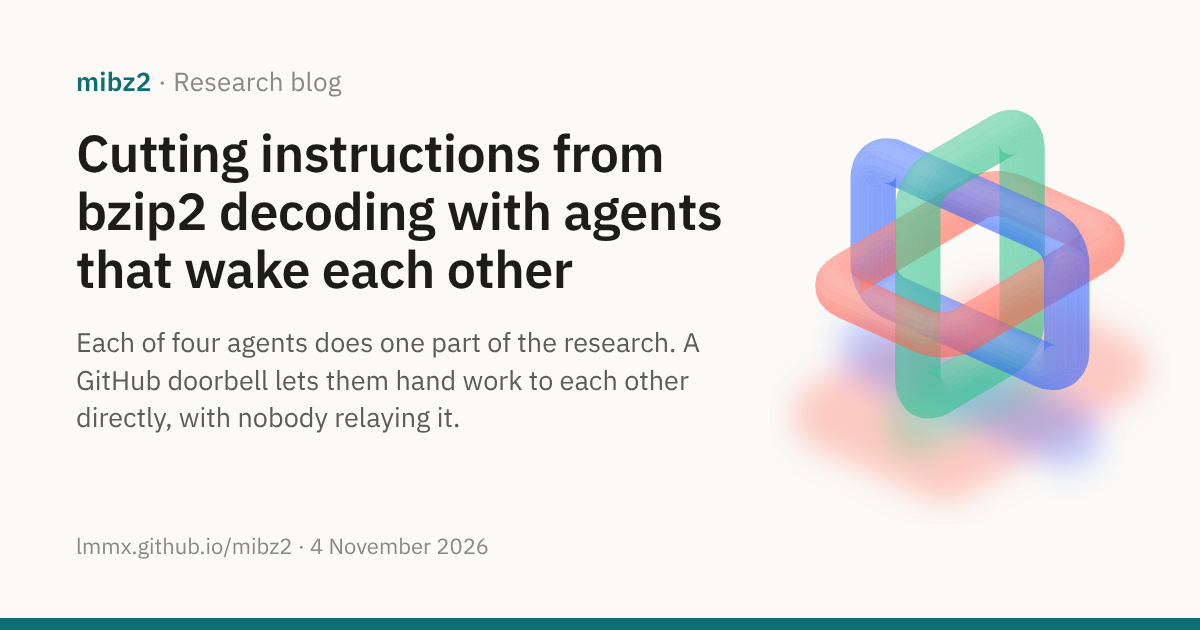
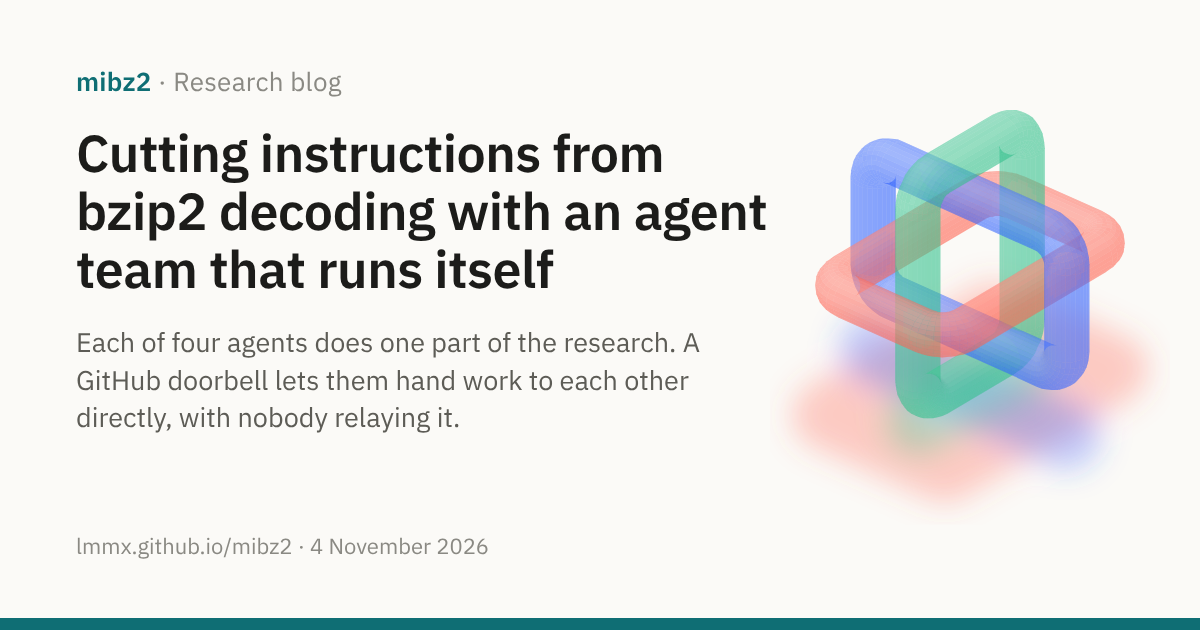
docs(blog): title the agent-team post around the work it does

Changed region(s): [[0.0617, 0.3921, 0.4933, 0.4825], [0.4933, 0.3016, 0.6475, 0.3921]]

diff --git a/docs/site/blog/index.md b/docs/site/blog/index.md
@@ -8,7 +8,7 @@ What mibz2's experiments are finding, and where they go next. The evidence behin
 post is in the [journals](../background/journals.md) and the pull requests they link.
 
 <div class="post-list">
-<a class="post-card" href="2026-11-04-autonomous-agent-team.md"><img src="../assets/social/blog-2026-11-04-autonomous-agent-team.png" alt="" loading="lazy"><span class="post-card-text"><span class="post-card-date">4 November 2026 · Method</span><span class="post-card-title">Cutting instructions from bzip2 decoding with agents that wake each other</span><span class="post-card-dek">Each of four agents does one part of the research. A GitHub doorbell lets them hand work to each other directly, with nobody relaying it.</span></span></a>
+<a class="post-card" href="2026-11-04-autonomous-agent-team.md"><img src="../assets/social/blog-2026-11-04-autonomous-agent-team.png" alt="" loading="lazy"><span class="post-card-text"><span class="post-card-date">4 November 2026 · Method</span><span class="post-card-title">Cutting instructions from bzip2 decoding with an agent team that runs itself</span><span class="post-card-dek">Each of four agents does one part of the research. A GitHub doorbell lets them hand work to each other directly, with nobody relaying it.</span></span></a>
 <a class="post-card" href="2026-11-04-compact30-constructor.md"><img src="../assets/social/blog-2026-11-04-compact30-constructor.png" alt="" loading="lazy"><span class="post-card-text"><span class="post-card-date">4 November 2026 · Research in progress</span><span class="post-card-title">Building a smaller bzip2 decoding table: from 49 instructions to 12</span><span class="post-card-dek">Writing a cheap placeholder for each row, and finishing each 30-row group once, shrank the inner loop. It still builds too slowly.</span></span></a>
 <a class="post-card" href="2026-11-02-revisiting-space-time-tradeoff-bwt-inversion.md"><img src="../assets/social/blog-2026-11-02-revisiting-space-time-tradeoff-bwt-inversion.png" alt="" loading="lazy"><span class="post-card-text"><span class="post-card-date">2 November 2026 · Research result</span><span class="post-card-title">Revisiting the space–time tradeoff in BWT inversion</span><span class="post-card-dek">A packed table saved memory but cost too much to read. A cheaper compact lookup gives the first positive traversal result.</span></span></a>
 <a class="post-card" href="2026-11-02-memory-level-parallelism.md"><img src="../assets/social/blog-2026-11-02-memory-level-parallelism.png" alt="" loading="lazy"><span class="post-card-text"><span class="post-card-date">2 November 2026 · Research synthesis</span><span class="post-card-title">Memory-level parallelism in mibz2: instructions, overlap and evidence</span><span class="post-card-dek">Interleaving pointer chases lets memory waits overlap. The speedup shows that this pays, but not what limits it: a 2022 exchange about Daniel Lemire's benchmark, read against mibz2's inverse-BWT walk.</span></span></a>

diff --git a/docs/site/blog/2026-11-04-autonomous-agent-team.md b/docs/site/blog/2026-11-04-autonomous-agent-team.md
@@ -1,5 +1,5 @@
 ---
-title: "Cutting instructions from bzip2 decoding with agents that wake each other"
+title: "Cutting instructions from bzip2 decoding with an agent team that runs itself"
 image: assets/social/blog-2026-11-04-autonomous-agent-team.png
 description: "Each of four agents does one part of the research. A GitHub doorbell lets them hand work to each other directly, with nobody relaying it."
 ---
@@ -11,7 +11,7 @@ description: "Each of four agents does one part of the research. A GitHub doorbe
 [mibz2 · Research blog](index.md)
 {: .post-kicker }
 
-# Cutting instructions from bzip2 decoding with agents that wake each other
+# Cutting instructions from bzip2 decoding with an agent team that runs itself
 
 Each of four agents does one part of the research. A GitHub doorbell lets them hand work to each
 other directly, with nobody relaying it.
